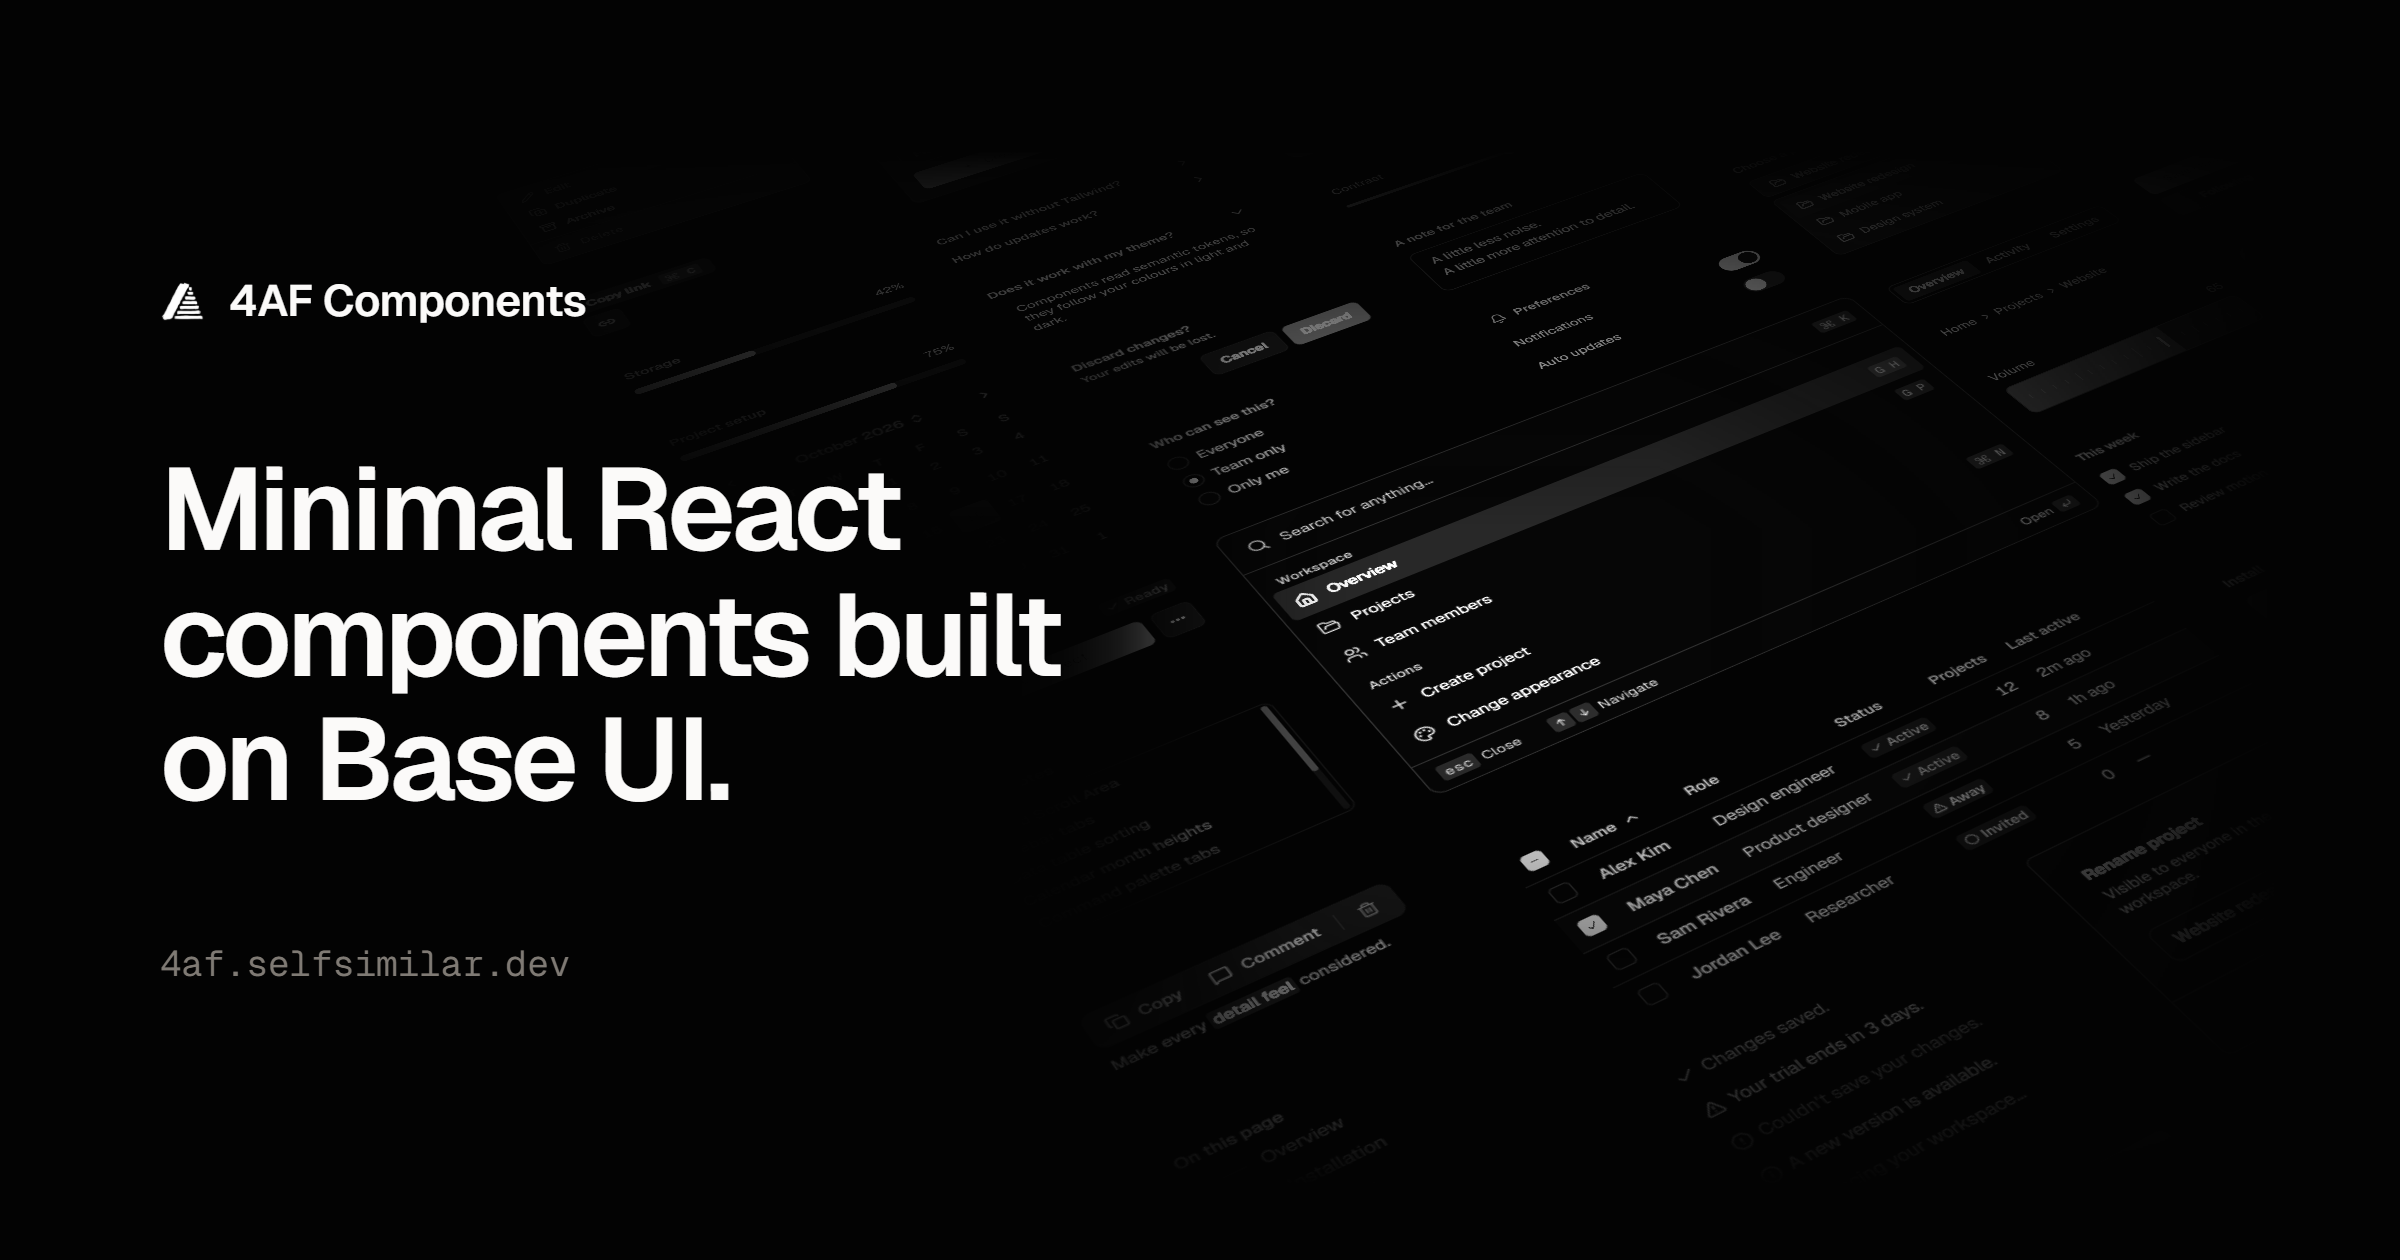
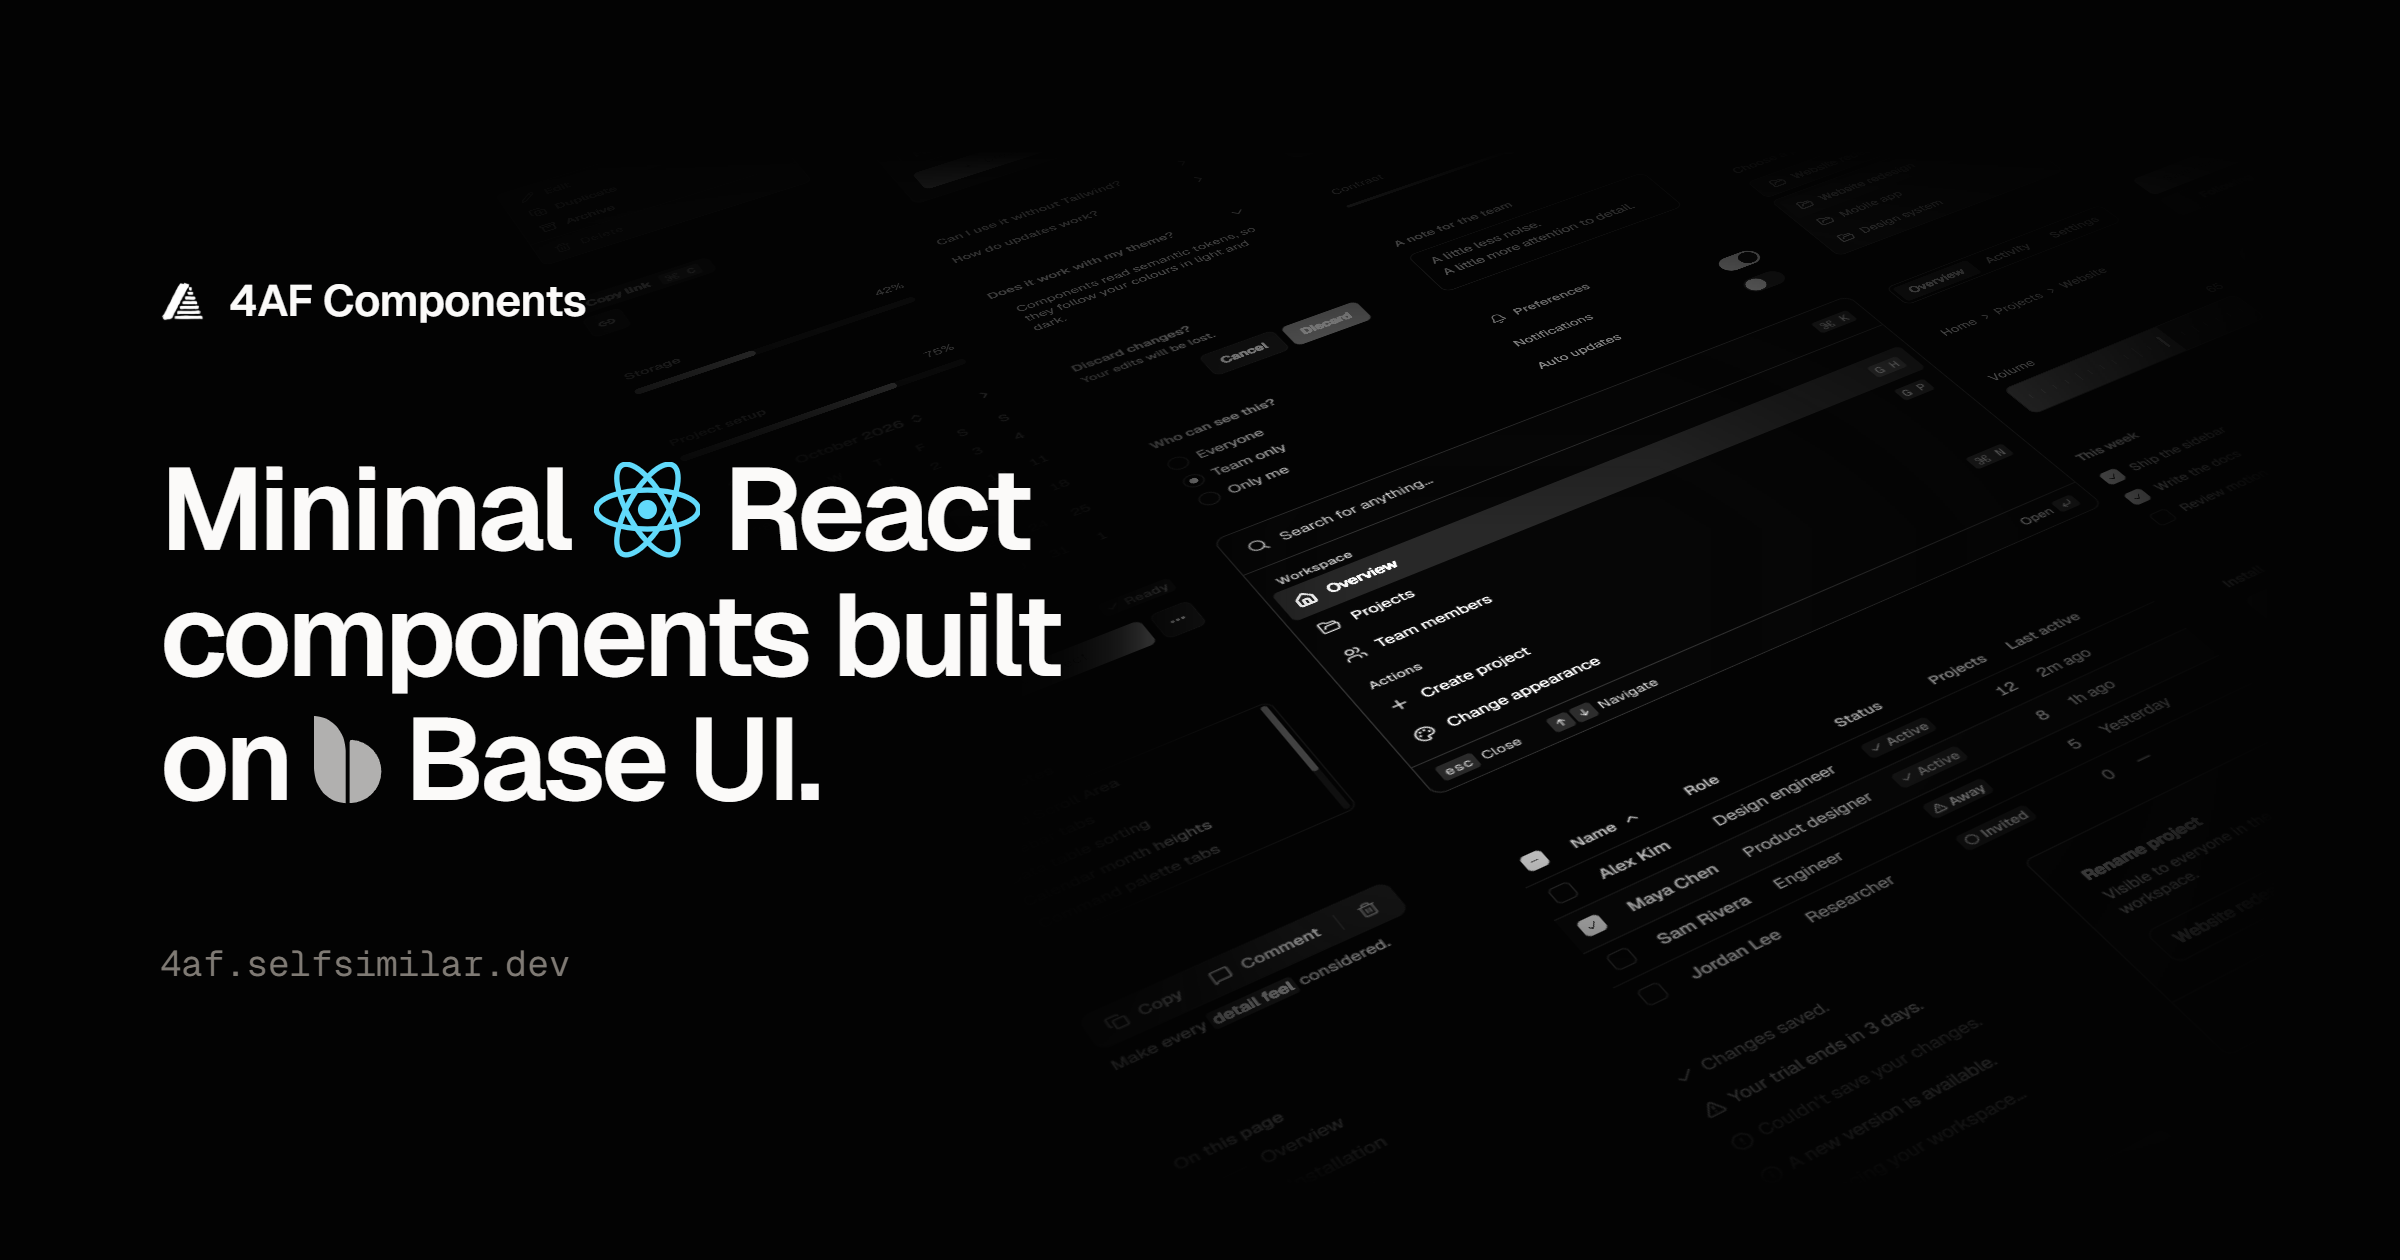
Update opengraph img

Changed region(s): [[0.125, 0.5571, 0.3438, 0.65], [0.25, 0.3714, 0.4375, 0.4643]]

diff --git a/AGENTS.md b/AGENTS.md
@@ -244,7 +244,7 @@ table cells, where the job is separation, not elevation.
 
 <!-- BEGIN:nextjs-agent-rules -->
 
-# This is NOT the Next.js you know
+## This is NOT the Next.js you know
 
 This version has breaking changes — APIs, conventions, and file structure may all differ from your training data. Read the relevant guide in `node_modules/next/dist/docs/` (resolved from this file's directory; in monorepos the `next` package may not be visible from the repo root) before writing any code. Heed deprecation notices.
 
